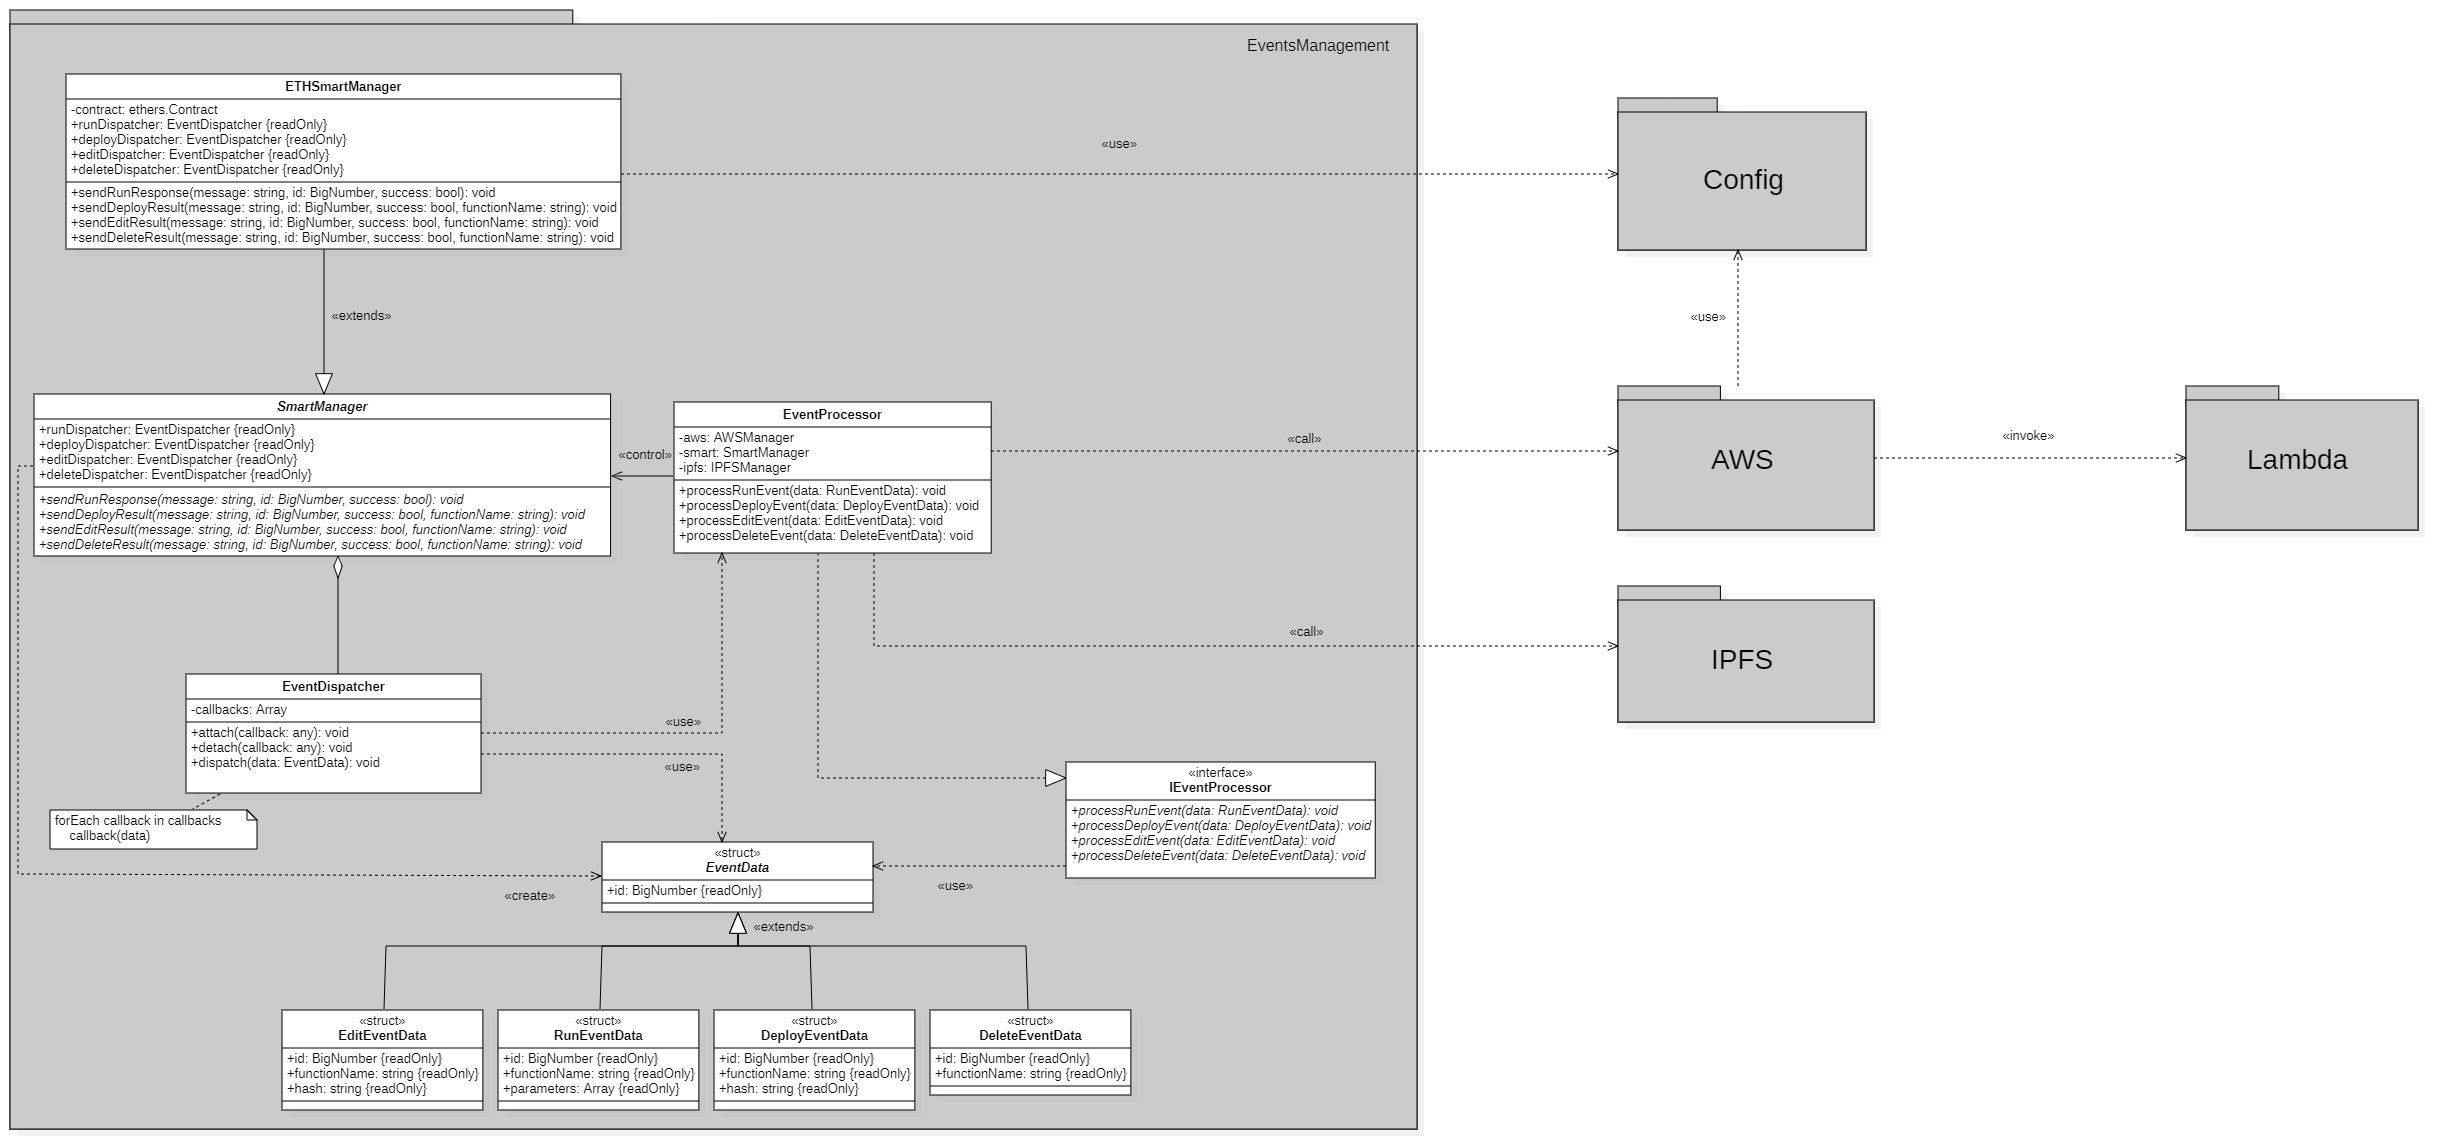
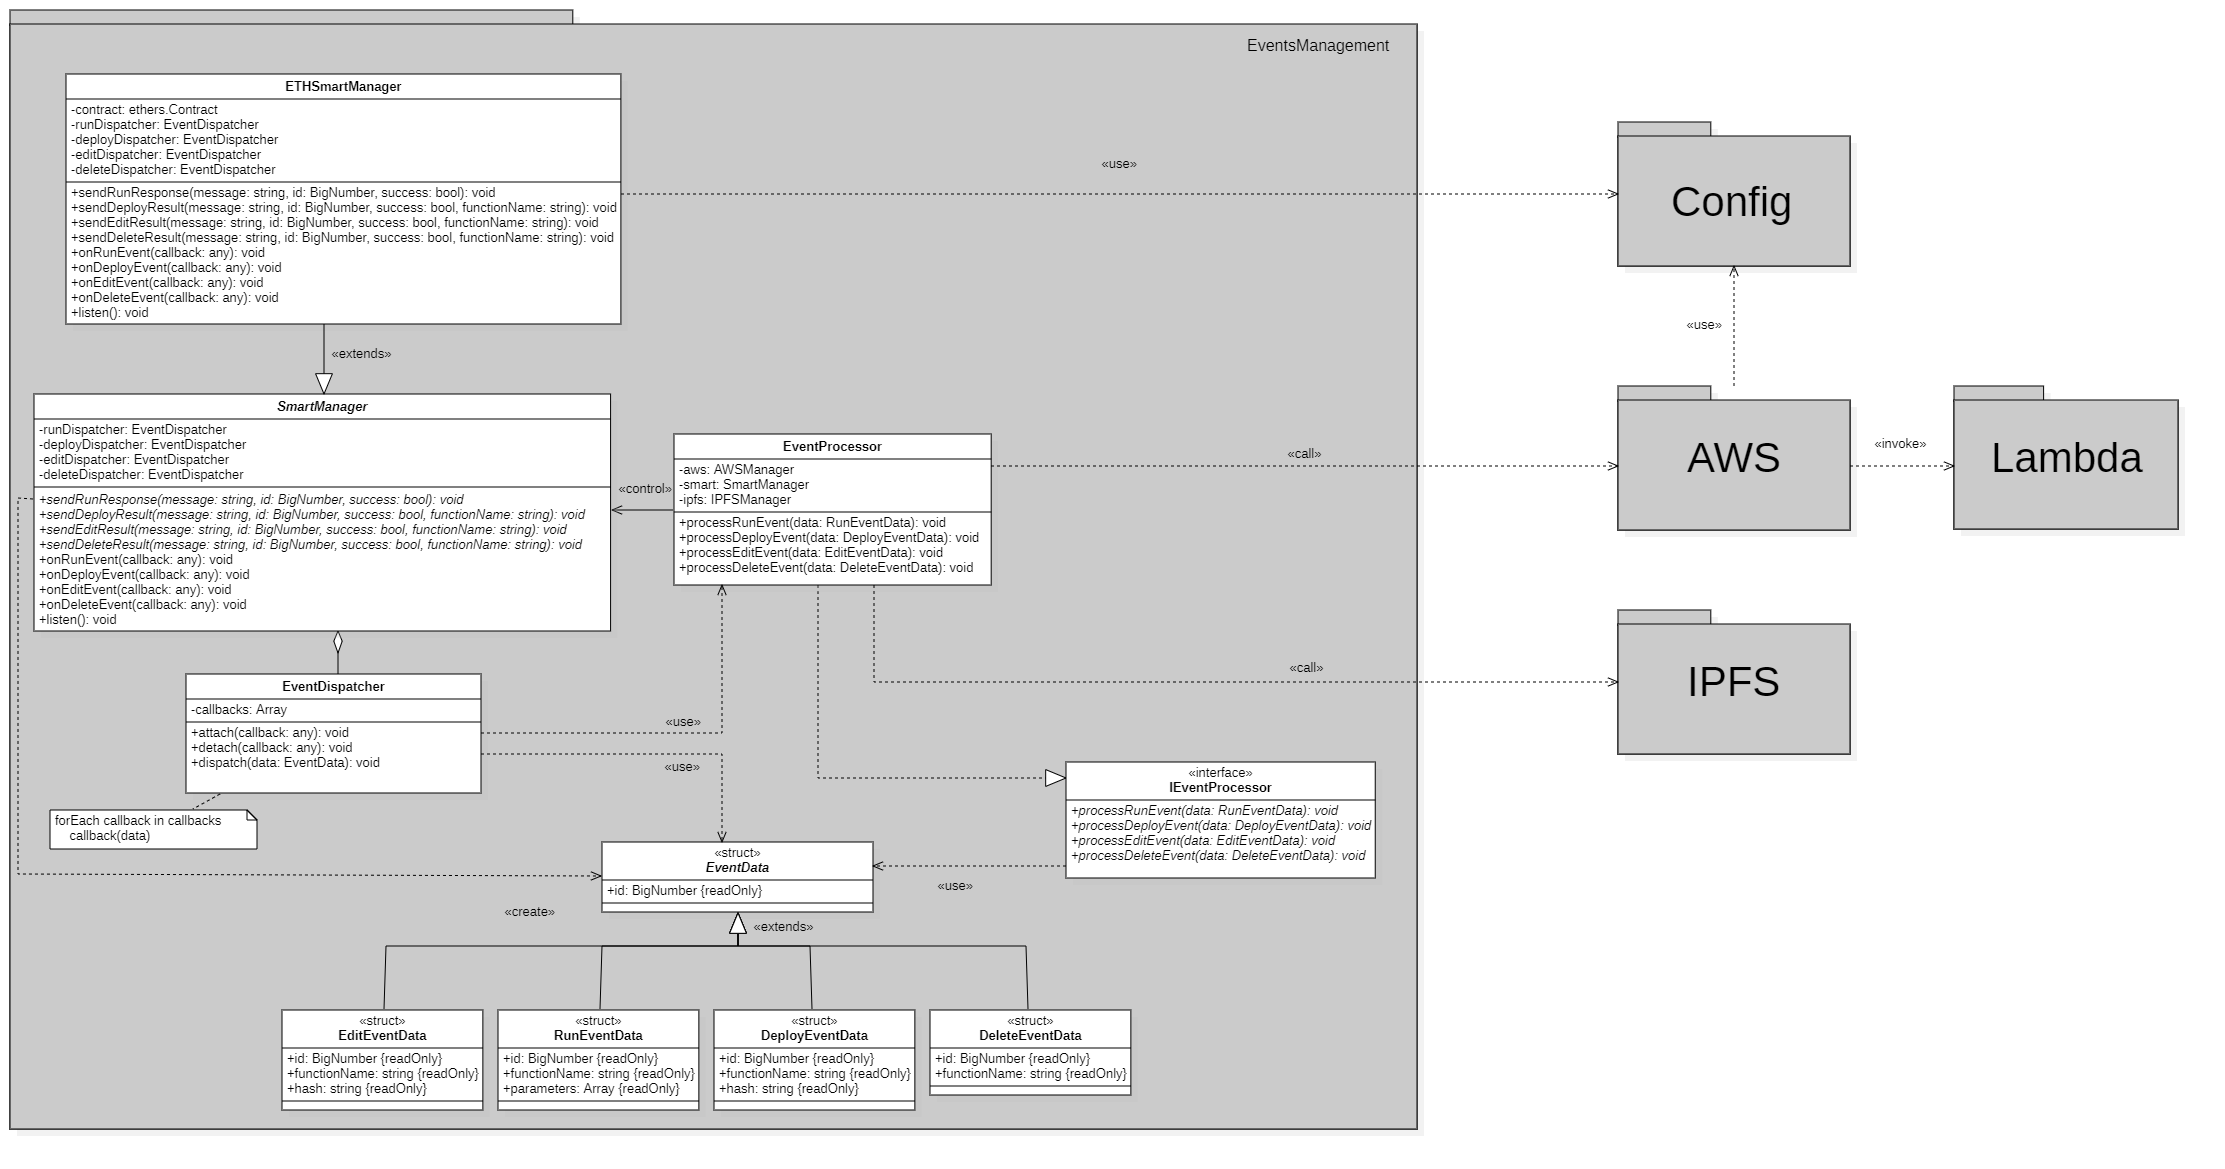
Aggiornamento diagrammi e sezione 5

diff --git a/Esterni/Developer_manual/res/sections/05-Server.tex b/Esterni/Developer_manual/res/sections/05-Server.tex
@@ -99,29 +99,29 @@
 	Abstract class, whose derived classes are used to encapsulate the content of external blockchain events into processing requests.
 	\subsubsubsection*{Attributes}
 	\begin{itemize}
-		\item \textbf{id}: an integer number, provider by Etherless-smart, used to uniquely identify a processing request.
+		\item \textbf{id}: an integer number, provided by Etherless-smart, used to uniquely identify a processing request.
 	\end{itemize}
 	\subsubsubsection*{Attributes - RunEventData}
 	\begin{itemize}
-		\item \textbf{id}: integer number, provider by Etherless-smart, used to uniquely identify a processing 'Run' request;
+		\item \textbf{id}: integer number, provided by Etherless-smart, used to uniquely identify a processing 'Run' request;
 		\item \textbf{functionName}: string identifying the name of the function to be run;
 		\item \textbf{parameters}: array identifying the parameters given to the function to be run.
 	\end{itemize}
 	\subsubsubsection*{Attributes - DeployEventData}
 	\begin{itemize}
-		\item \textbf{id}: integer number, provider by Etherless-smart, used to uniquely identify a processing 'Deploy' request;
+		\item \textbf{id}: integer number, provided by Etherless-smart, used to uniquely identify a processing 'Deploy' request;
 		\item \textbf{functionName}: string identifying the name of the function to be deployed;
 		\item \textbf{hash}: string which identifies the IPFS location of the file to be used for the deloyment.
 	\end{itemize}
 	\subsubsubsection*{Attributes - EditEventData}
 	\begin{itemize}
-		\item \textbf{id}: integer number, provider by Etherless-smart, used to uniquely identify a processing 'Edit' request;
+		\item \textbf{id}: integer number, provided by Etherless-smart, used to uniquely identify a processing 'Edit' request;
 		\item \textbf{functionName}: string identifying the name of the function to be edited;
 		\item \textbf{hash}: string which identifies the IPFS location of the file to be used for the edit.
 	\end{itemize}
 	\subsubsubsection*{Attributes - DeleteEventData}
 	\begin{itemize}
-		\item \textbf{id}: integer number, provider by Etherless-smart, used to uniquely identify a processing 'Delete' request;
+		\item \textbf{id}: integer number, provided by Etherless-smart, used to uniquely identify a processing 'Delete' request;
 		\item \textbf{functionName}: string identifying the name of the function to be deleted.
 	\end{itemize}
 
@@ -223,7 +223,8 @@
 	\begin{itemize}
 		\item \textbf{injectHandler}: used to create and inject a handler for the function to be deployed, which will be used by Lambda to handle parameterized invocations to the function;
 		\item \textbf{buildZip}: used to build a Lambda deployment package, which consists of a Zip file containing the function to be deployed and all the dependencies required by Lambda;
-		\item \textbf{deploy}: used to request the deployment of the given Lambda deployment package, to the AWS Lambda service.
+		\item \textbf{deploy}: used to request the deployment of the given Lambda deployment package, to the AWS Lambda service;
+		\item \textbf{edit}: used to request the deployment of the given Lambda deployment package, to the AWS Lambda service, in order to update the code of an existing Lambda function.
 	\end{itemize}
 	\newgeometry{a4paper,left=1in,right=1in,top=1in,bottom=1in,nohead}
 	\begin{landscape}
